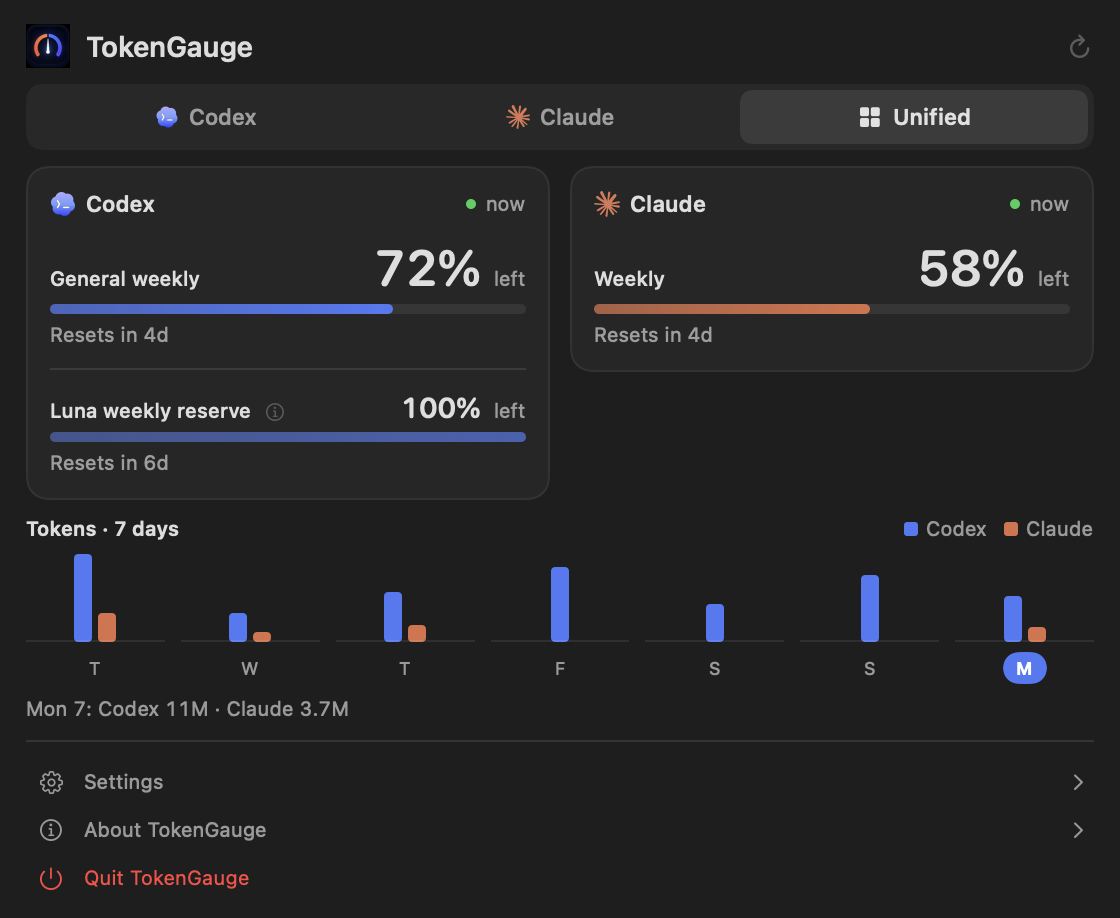
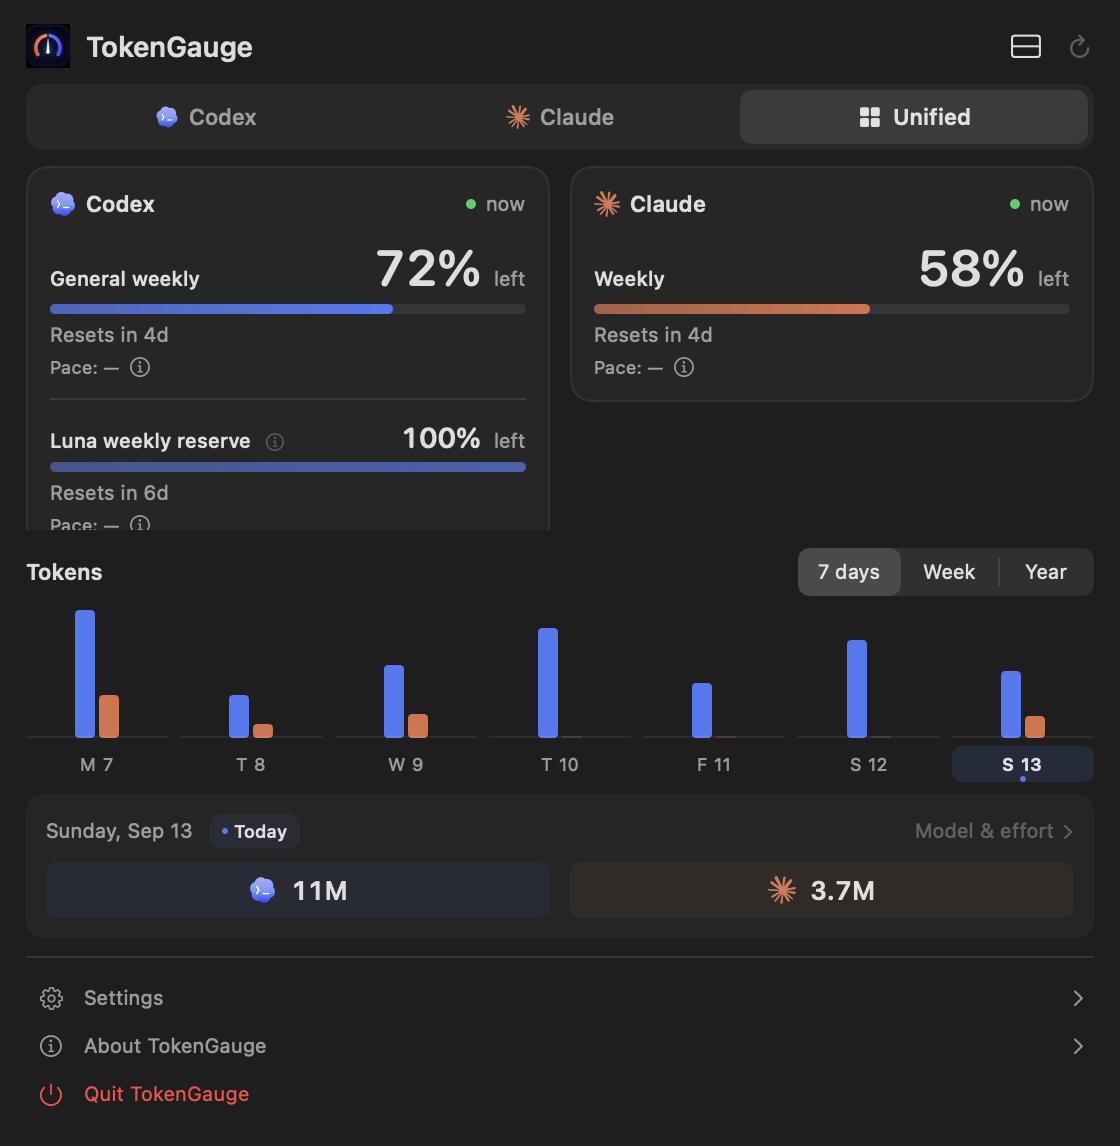
chore(release): prepare version 1.3.0

diff --git a/Tests/TokenGaugeAppTests/ScreenshotTests.swift b/Tests/TokenGaugeAppTests/ScreenshotTests.swift
@@ -113,6 +113,7 @@ final class ScreenshotTests: XCTestCase {
             }
         }
 
+        LocalizationManager.shared.language = .english
         for historyMode in [HistoryMode.week, .calendar] {
             store.historyMode = historyMode
             let efforts = ["medium", "high", "xhigh"].enumerated().map { index, effort in

diff --git a/CHANGELOG.md b/CHANGELOG.md
@@ -7,20 +7,24 @@ and this project adheres to [Semantic Versioning](https://semver.org/spec/v2.0.0
 
 ## [Unreleased]
 
+## [1.3.0] - 2026-09-13
+
 ### Added
 
 - Navigable weekly history and a yearly activity calendar, with local model and reasoning effort token details.
 - Provider-colored calendar days, distinct month blocks, and highlighted Saturday/Sunday rows.
 - Optional weekly quota pace estimates with a clickable explanation, dated recent and previous readings, and local persistence across idle periods and app restarts.
-- Consistent spacing between quota titles, rings, and reading details in individual and Unified cards.
-- The history Today badge appears only on the current date, with a stable, animated summary when changing selection.
-
 - Optional compact and ring quota panels that adapt to visible limits, plus independent mini-bar and mini-ring menu indicators with integrated provider logos.
 - Appearance settings and a panel view picker, with brief optional transitions that respect Reduce Motion.
 - Optional automatic Claude reconnection after session expiry, with one-time consent, bounded retries, and no model requests.
 
+### Changed
+
+- Consistent spacing between quota titles, rings, and reading details in individual and Unified cards.
+
 ### Fixed
 
+- Show the history Today badge only on the current date, with a stable, animated summary when changing selection.
 - Keep local quota history tied to verified readings and preserve explicitly reported zero-token days without inventing missing observations.
 - Preserve clearly marked last-known Claude limits during temporary connection failures, including model weekly usage.
 - Keep Codex readings responsive while Claude reconnects, and never substitute a different quota for a selected model limit.

diff --git a/README.md b/README.md
@@ -9,15 +9,17 @@
   <a href="LICENSE"><img src="https://img.shields.io/badge/license-MIT-green" alt="MIT License"></a>
 </p>
 
-TokenGauge lives in your Mac’s menu bar and shows how much Claude Code or Codex quota you have left. Check reset times, compare seven days of activity, and keep a private local history without opening a terminal.
+TokenGauge lives in your Mac’s menu bar and shows how much Claude Code or Codex quota you have left. Check reset times, browse weekly and yearly activity, and keep a private local history without opening a terminal.
 
 <p align="center">
-  <img src="docs/images/unified.png" width="560" alt="Unified TokenGauge view with separate Codex and Claude quotas and activity">
+  <img src="docs/images/rings-current.png" width="440" alt="Unified ring view with Codex weekly quota, Claude session and model weekly quota">
 </p>
 <p align="center"><sub>App views rendered with synthetic demonstration data.</sub></p>
 
 <details>
-<summary>Individual provider views and Settings</summary>
+<summary>Classic panels, yearly history, and Settings</summary>
+<p align="center"><img src="docs/images/history-calendar-rings.png" width="440" alt="Yearly local activity calendar beneath the ring quota panel"></p>
+<p align="center"><img src="docs/images/unified.png" width="560" alt="Classic Unified panel with separate provider quotas"></p>
 <p align="center">
   <img src="docs/images/panel.png" width="340" alt="Codex view showing only Codex quota and token activity">
   <img src="docs/images/claude.png" width="340" alt="Claude view showing only Claude quota and token activity">
